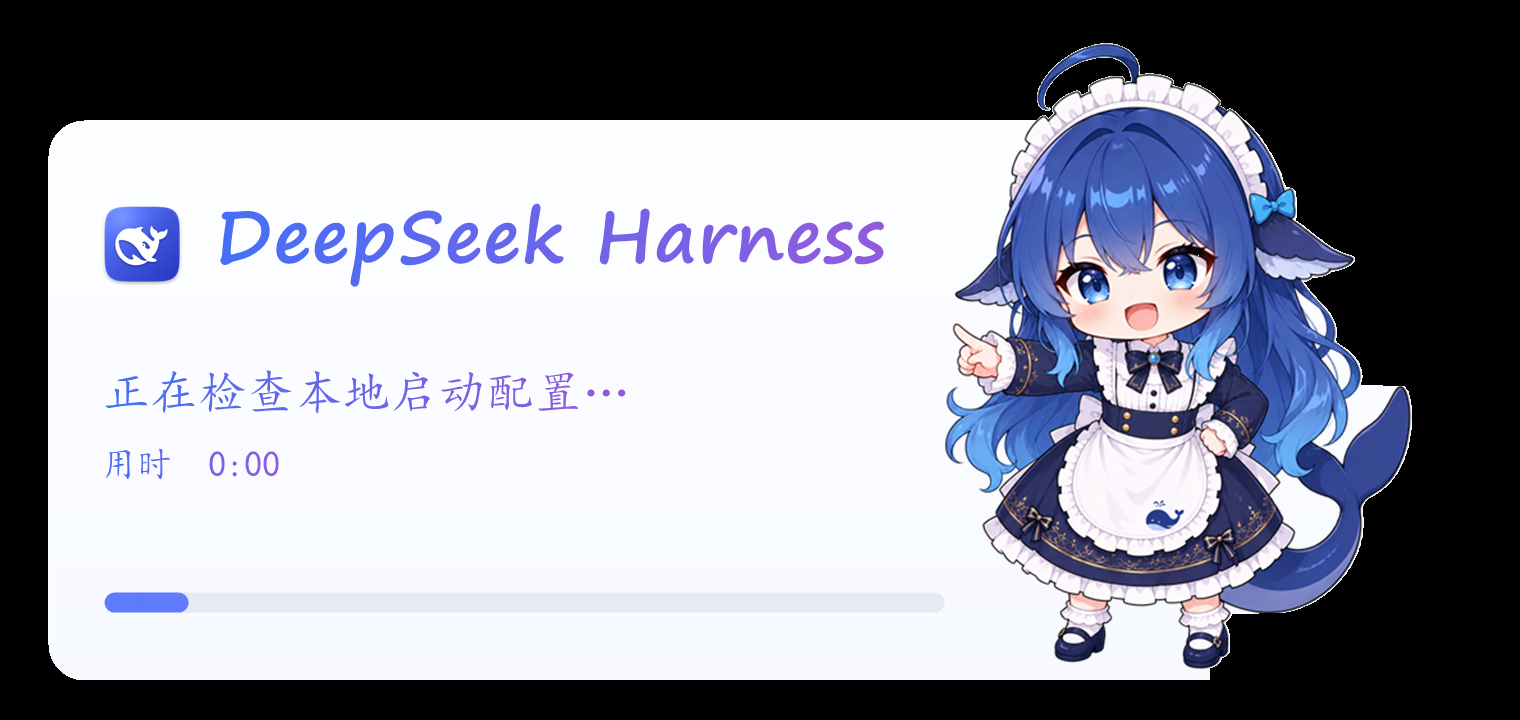
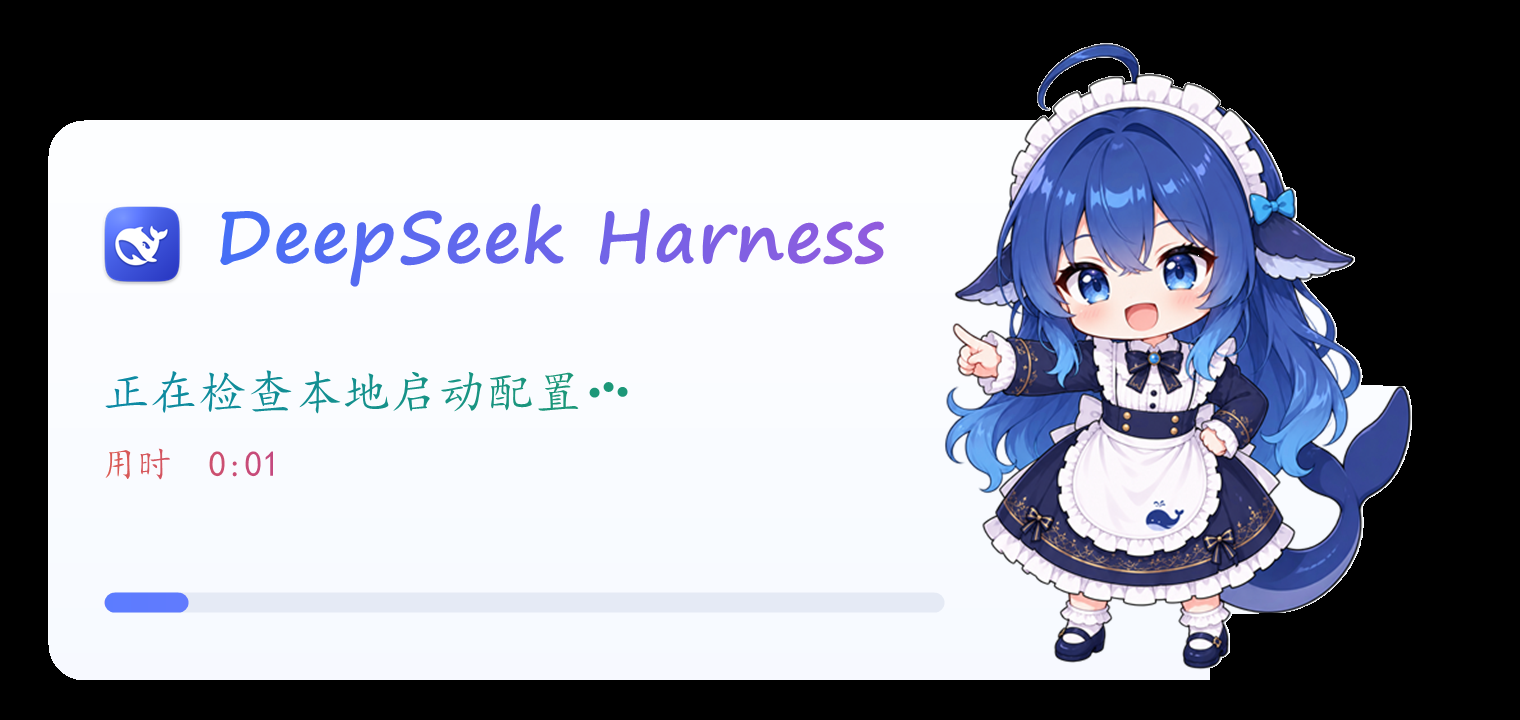
Add source install mode and animated loading artwork

Changed region(s): [[0.0618, 0.5194, 0.402, 0.5806], [0.0618, 0.6111, 0.1855, 0.6722]]

diff --git a/images/validation-report.md b/images/validation-report.md
@@ -2,6 +2,14 @@
 
[1 lines of base64/hex data omitted]
 
+## 启动器目录统一验收（2026-10-11）
+
+- 当前桌面快捷方式直接调用 `D:\deepseek harness\dsh-windows-launcher\launcher\start-dsh.vbs`；原快捷方式名称和图标保持不变。配置与运行文件集中在 `launcher/`，端口仍为 4080、工作目录仍为 `D:\deepseek harness`，浏览器仍为普通窗口模式。下文涉及父目录部署源的记录是迁移前的历史验证。
+- `tests/Test-InstallModes.ps1` 在临时目录验证源码模式保留配置、名称及图标，显式参数覆盖、新快捷方式只复制外部图标，以及原复制安装模式；插件注册被跳过。
+- 真实源码 Preview 退出成功，未创建指定 WorkDir、未修改 `.run`；native Region 在初始、Resize、恢复和真实 Preview 子进程上均通过点包含测试，客户区为 1520×720。窗口源码和 UI 素材未改动。
+- 通过实际桌面快捷方式冷启动 DSH，启动令牌交换及带 cookie 的网页请求均返回 HTTP 200；再次点击打开新浏览器窗口并复用原进程及缓存状态。源码停止脚本释放 4080 端口并移除 `state.json`。验收打开的 DSH 浏览器窗口已关闭。
+- 服务日志确认自动关闭插件正常加载；web profile 的 package、lock 和 patch 配置哈希均保持不变。启动失败路径由现有流程模拟测试验证。
+
 ## 验证结果
 
 - 六种离屏组合（浅/深主题 × 100/150/200%）均完成绘制，画布分别为 760×360、1140×540、1520×720；长中文阶段压力文本、1 秒/10 分钟/100 分钟计时缓存均通过。主题和比例由测试进程内存注入，不代表系统设置或原生多显示器 DPI 切换。
@@ -26,4 +34,23 @@
 & "$env:SystemRoot\System32\WindowsPowerShell\v1.0\powershell.exe" -NoProfile -ExecutionPolicy Bypass -File tests/Invoke-DshValidation.ps1 -Mode Flows
 & "$env:SystemRoot\System32\WindowsPowerShell\v1.0\powershell.exe" -NoProfile -ExecutionPolicy Bypass -File tests/Test-NativeWindowRegion.ps1 -PreviewSeconds 2
 & "$env:SystemRoot\System32\WindowsPowerShell\v1.0\powershell.exe" -NoProfile -ExecutionPolicy Bypass -File tests/Invoke-DshValidation.ps1 -Mode StaticSample -DurationSeconds 30
+```
+
+
+## Loading dots 更新验证（2026-10-13）
+
[1 lines of base64/hex data omitted]
+
+- Capture 六组浅/深主题与 100/150/200% 内存模拟尺寸（760×360、1140×540、1520×720），并通过长中文阶段与 1 秒、10 分钟、100 分钟计时缓存检查。Windows 系统主题和 DPI 设置未更改。
+- 反射断言确认 loading dots 的边界位于阶段字形右侧且留在阶段栏范围内；完成和失败状态隐藏 dots。相同的长阶段文字从 loading 转为完成时，公开 Stage 字段仍保留原文，阶段缓存重建，并恢复原先为 dots 预留的宽度。
+- 对真实 `-Preview -PreviewSeconds 16` 子进程 PID 17376 连续采集 12 帧，间隔 100 ms；采集进程调用 SetProcessDPIAware，得到完整 1520×720 窗口。Preview ExitCode 为 0，指定 WorkDir 未创建，`.run` 快照未变化。连续帧的点动画区域每个相邻间隔均有像素变化；同阶段帧 1 与帧 5 的全图差异只落在点区域 (589,380)..(628,398)，阶段文案及计时保持不变。
+- [真实 Preview 截图](validation-native-preview.png) 来自上述可见 HWND 的 PrintWindow；[12 帧 loading dots GIF](validation-loading-dots.gif) 使用相同 Preview 捕获帧制作，100 ms/帧。PrintWindow 仅作显示辅助，窗口异形裁切仍由前节记录的 Win32 native Region 测试确认。
+- 当前源码的缺失/损坏吉祥物回退、Preview 隔离和冷启动/已有实例/失败流程模拟均通过；流程模拟拦截外部进程和浏览器调用，不运行真实 dsh/浏览器。
+
+唯一成功的动画运行样本为 32.81 秒：单核 CPU 2.52%，WorkingSet 峰值 109.65 MiB，PrivateBytes 峰值 92.02 MiB，ExitCode 0。该值是单样本，未据此作严格性能比较。禁用 dots 的同源对照未能启动：测试专用改写的 C# 在 warnings-as-errors 下因 `_dotPhase` 未使用而编译失败，未启动 Preview；这不影响生产源码编译结果。之前静态 UI 的 2.56% 数据来自上次验证，仅作历史参考。
+
+复跑动态截图可运行：
+
+```powershell
+& "$env:SystemRoot\System32\WindowsPowerShell\v1.0\powershell.exe" -NoProfile -ExecutionPolicy Bypass -File tests/Capture-LoadingDots.ps1 -OutputDir "$env:TEMP\dsh-dot-frames" -FrameCount 12 -IntervalMs 100 -PreviewSeconds 16
 ```

diff --git a/README.md b/README.md
@@ -18,7 +18,7 @@ A Windows desktop launcher for [DeepSeek Harness](https://www.npmjs.com/package/
 
 进度窗必须在 dsh 启动前就出现，所以它做不成 dsh 插件（插件要等服务起来才会加载）。
 
-配合起来的效果：**点图标 → 进度窗 → 浏览器打开；再点图标 → 冷启动。**
+配合起来的效果：**点图标 → 进度窗 → 浏览器打开；服务还在运行时再次点击会复用实例，服务关闭后再次点击才会冷启动。**
 
 ## 环境要求
 
@@ -36,6 +36,31 @@ powershell -ExecutionPolicy Bypass -File install.ps1
 
 安装时，`install.ps1` 会把 `launcher\` 中的启动脚本、静态角色图和图标一并复制到 `%LOCALAPPDATA%\DeepSeekHarness`。
 
+## 直接使用源码（本机当前方式）
+
+本机桌面快捷方式直接调用 `D:\deepseek harness\dsh-windows-launcher\launcher\start-dsh.vbs`。启动、停止脚本和素材只维护 `launcher/` 这一份，不需要在父目录复制一套。
+
+从仓库根目录运行以下命令可创建或更新快捷方式，并跳过插件注册：
+
+```powershell
+& "$env:SystemRoot\System32\WindowsPowerShell\v1.0\powershell.exe" -NoProfile -ExecutionPolicy Bypass -File .\install.ps1 -UseSource -SkipPlugin -WorkDir 'D:\deepseek harness' -Port 4080
+```
+
+`-UseSource` 不复制启动脚本，并保留已有快捷方式的名称和图标。新快捷方式的图标单独放在 `%LOCALAPPDATA%\DeepSeekHarness`，避免 DSH 工作区的完整性标签使图标变空白。重复安装时，未明确传入的端口、工作目录和浏览器模式沿用 `launcher/dsh-launcher.json`；普通复制安装仍使用原来的默认设置。
+
+本机启动配置为端口 `4080`、工作目录 `D:\deepseek harness`、`appWindow=false`。配置与运行日志均留在 `launcher/`：`dsh-launcher.json`、`.run/server.log`、`.run/server.err` 和自动生成的 `.run/state.json` 都被 Git 忽略。
+
+整理前的服务日志保留在 `launcher/.run/history/`，不与之后启动生成的新日志混用。
+
+也可以直接启动或停止：
+
+```powershell
+& "$env:SystemRoot\System32\wscript.exe" 'D:\deepseek harness\dsh-windows-launcher\launcher\start-dsh.vbs'
+& "$env:SystemRoot\System32\WindowsPowerShell\v1.0\powershell.exe" -NoProfile -ExecutionPolicy Bypass -File 'D:\deepseek harness\dsh-windows-launcher\launcher\stop-dsh.ps1'
+```
+
+`stop-dsh.ps1` 默认读取同目录配置的端口；显式指定 `-Port` 可覆盖。当前自动关闭插件仍链接独立的 `D:\deepseek harness\dsh-auto-shutdown`，因此该目录必须保留，整理启动器不改变插件配置。
+
 ## 预览
 
 可以安全预览启动窗口，而不启动 `dsh` 或浏览器，也不会创建工作目录或 `.run` 状态文件：
@@ -45,6 +70,8 @@ powershell -NoProfile -ExecutionPolicy Bypass -File launcher\start-dsh.ps1 -Prev
 ```
 
 预览默认显示12秒，使用与真实启动相同的开心站姿静态角色。可延长预览时间：
+
+窗口中的产品名使用蓝紫艺术字，启动阶段使用青蓝/青绿字色，用时使用珊瑚/玫瑰色；启动中的三点省略号依次轻跳，完成或失败时停止。
 
 ```powershell
 powershell -NoProfile -ExecutionPolicy Bypass -File launcher\start-dsh.ps1 -Preview -PreviewSeconds 30
